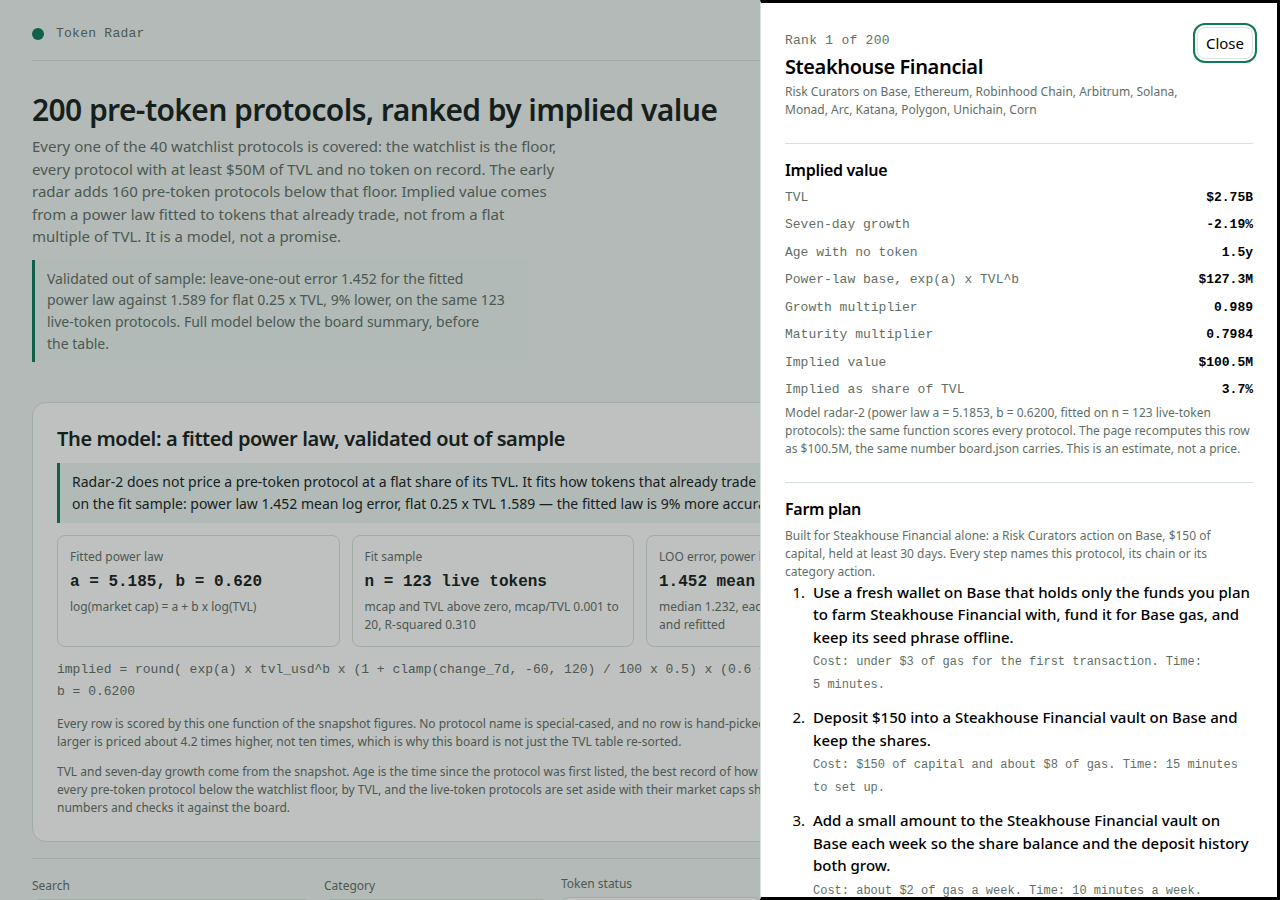
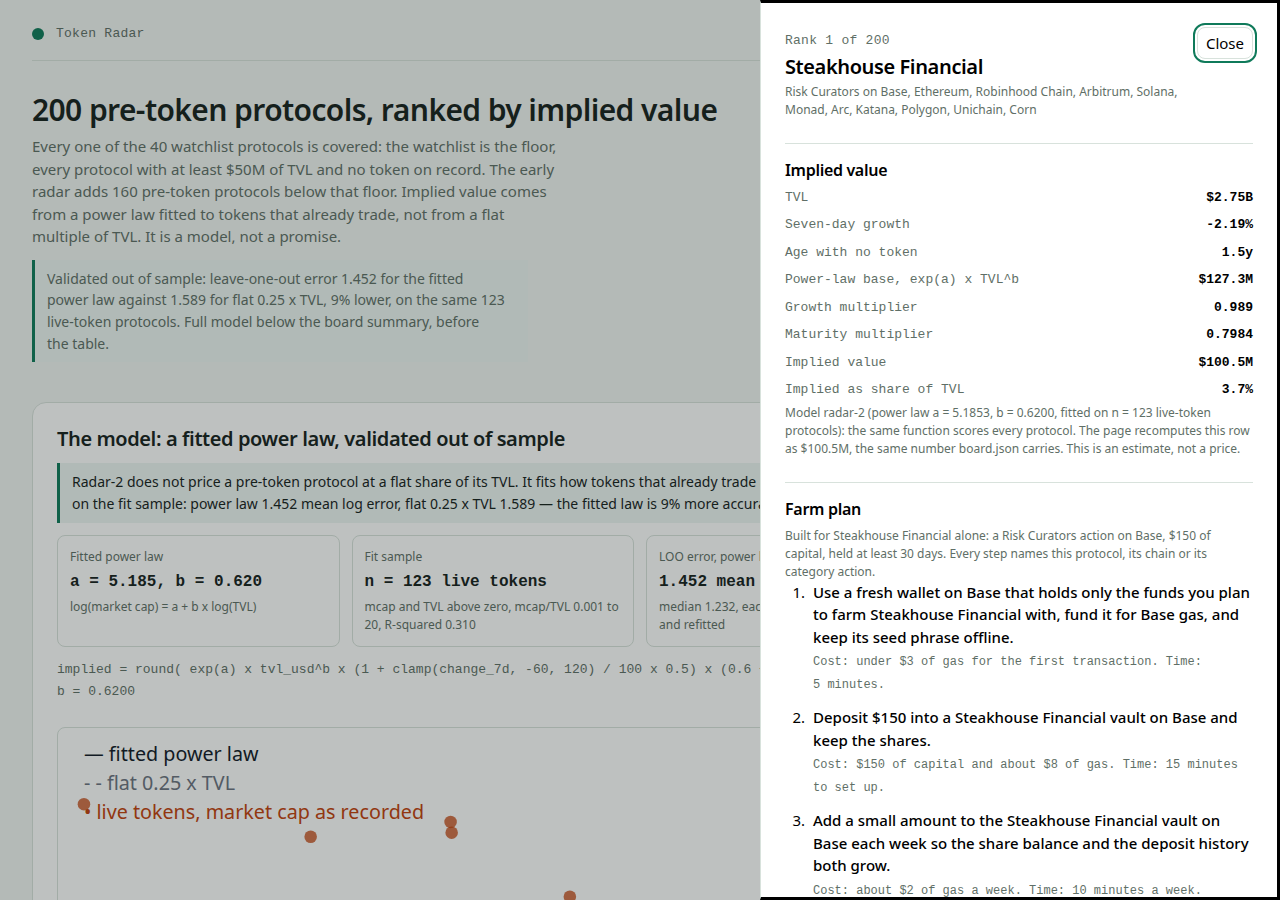
Dashboard fit chart (log-log scatter), report watchlist table; retake screenshots

Changed region(s): [[0.0312, 0.7778, 0.5938, 0.9333], [0.0312, 0.9644, 0.5938, 1.0]]

diff --git a/dashboard/app.js b/dashboard/app.js
@@ -355,6 +355,49 @@
     );
   }
 
+  // The fit as a picture, built as one SVG string (the page's element helper makes HTML
+  // elements, and SVG needs its own namespace, so the chart is composed as markup and set
+  // as inner HTML). Axes are log-log: each live-token protocol is a point at its real TVL
+  // and market cap, the solid line is the fitted law exp(a) x TVL^b, and the dashed line is
+  // the flat 0.25 x TVL baseline. The vertical gap between the two lines at a protocol's
+  // size is exactly the disagreement the validation numbers summarise.
+  function fitChart() {
+    var f = DATA.fit;
+    var pts = DATA.live.filter(function (r) { return r.mcap_usd !== null && r.mcap_usd > 0 && r.tvl_usd > 0; });
+    if (pts.length < 3) return '';
+    var W = 640, H = 250, L = 10, R = 10, T = 10, B = 26;
+    var xs = pts.map(function (r) { return Math.log10(r.tvl_usd); });
+    var ys = pts.map(function (r) { return Math.log10(r.mcap_usd); });
+    var x0 = Math.min.apply(null, xs), x1 = Math.max.apply(null, xs);
+    var y0 = Math.min.apply(null, ys.concat([Math.log10(Math.exp(f.a) * Math.pow(Math.pow(10, x0), f.b)), Math.log10(0.25 * Math.pow(10, x0))]));
+    var y1 = Math.max.apply(null, ys.concat([Math.log10(Math.exp(f.a) * Math.pow(Math.pow(10, x1), f.b)), Math.log10(0.25 * Math.pow(10, x1))]));
+    var pad = (y1 - y0) * 0.08; y0 -= pad; y1 += pad;
+    function px(x) { return (L + (x - x0) / (x1 - x0) * (W - L - R)).toFixed(1); }
+    function py(y) { return (T + (y1 - y) / (y1 - y0) * (H - T - B)).toFixed(1); }
+    function lawPath(mult) {
+      var d = '';
+      for (var i = 0; i <= 24; i++) {
+        var lx = x0 + (x1 - x0) * i / 24;
+        var tvl = Math.pow(10, lx);
+        var ly = Math.log10(mult === null ? Math.exp(f.a) * Math.pow(tvl, f.b) : mult * tvl);
+        d += (i === 0 ? 'M' : 'L') + px(lx) + ' ' + py(ly) + ' ';
+      }
+      return d.trim();
+    }
+    var circles = pts.map(function (r) {
+      return '<circle cx="' + px(Math.log10(r.tvl_usd)) + '" cy="' + py(Math.log10(r.mcap_usd)) + '" r="3.5" fill="#c2410c" fill-opacity="0.75"><title>' + r.name + ': TVL ' + fmtUsd(r.tvl_usd) + ', market cap ' + fmtUsd(r.mcap_usd) + '</title></circle>';
+    }).join('');
+    return '<svg viewBox="0 0 ' + W + ' ' + H + '" role="img" aria-label="Log-log scatter of live-token market cap against TVL, with the fitted power law and the flat baseline">' +
+      '<path d="' + lawPath(0.25) + '" fill="none" stroke="#9ca3af" stroke-width="1.5" stroke-dasharray="5 4"/>' +
+      '<path d="' + lawPath(null) + '" fill="none" stroke="#111827" stroke-width="2"/>' +
+      circles +
+      '<text x="' + (W - R) + '" y="' + (H - 8) + '" text-anchor="end" font-size="11" fill="#6b7280">log TVL, smallest to largest live protocol</text>' +
+      '<text x="' + L + '" y="' + (T + 4) + '" font-size="11" fill="#111827">— fitted power law</text>' +
+      '<text x="' + L + '" y="' + (T + 20) + '" font-size="11" fill="#6b7280">- - flat 0.25 x TVL</text>' +
+      '<text x="' + L + '" y="' + (T + 36) + '" font-size="11" fill="#c2410c">• live tokens, market cap as recorded</text>' +
+      '</svg>';
+  }
+
   function modelPanel() {
     var m = DATA.model;
     var f = DATA.fit;
@@ -371,6 +414,8 @@
       el('div', { class: 'formula' },
         'implied = round( exp(a) x tvl_usd^b x (1 + clamp(change_7d, ' + m.growth_floor + ', ' + m.growth_cap + ') / 100 x ' + m.growth_weight + ') x (' + m.maturity_floor + ' + min(age_days, ' + m.maturity_days + ') / ' + m.maturity_days + ' x ' + m.maturity_range + ') ), with a = ' + f.a.toFixed(4) + ' and b = ' + f.b.toFixed(4)
       ),
+      el('div', { class: 'fitchart', html: fitChart() }),
+      el('p', { class: 'sub', text: 'The fit, drawn: every live-token protocol in the snapshot as a point (log TVL against log market cap), the fitted law through them, and the flat baseline it beat. The law bends below the baseline at large TVL — that bend is the whole model.' }),
       el('p', { class: 'sub', text: 'Every row is scored by this one function of the snapshot figures. No protocol name is special-cased, and no row is hand-picked. Because b is below 1, implied value grows slower than TVL: a protocol ten times larger is priced about ' + Math.pow(10, f.b).toFixed(1) + ' times higher, not ten times, which is why this board is not just the TVL table re-sorted.' }),
       el('p', { class: 'sub', text: 'TVL and seven-day growth come from the snapshot. Age is the time since the protocol was first listed, the best record of how long it has run with no token; an unlisted age uses ' + m.unknown_age_days + ' days. The early radar is every pre-token protocol below the watchlist floor, by TVL, and the live-token protocols are set aside with their market caps shown. Open any row: the page recomputes its implied value from these same numbers and checks it against the board.' })
     );

diff --git a/lib/report.ts b/lib/report.ts
@@ -115,6 +115,17 @@ export function buildReport(snapshot: Snapshot, radar: RadarData, board: BoardRo
     lines.push(`| ${r.rank} | ${r.name} | ${r.category ?? '—'} | ${usd(r.tvl_usd)} | ${pct(r.change_7d)} | ${usd(r.implied_value_usd)} | ${fixed((r.implied_value_usd / r.tvl_usd) * 100, 1)}% |`);
   }
   lines.push('');
+  lines.push('## The watchlist, in full');
+  lines.push('');
+  lines.push('The forty protocols the brief guarantees a place to — TVL at or above the floor and no token on record — with the rank the model gives each. A watchlist protocol the model prices low is still here: coverage is the floor, the ranking is the model\'s opinion, and the two are never traded against each other.');
+  lines.push('');
+  lines.push('| Rank | Protocol | Category | TVL | Implied value | % of TVL |');
+  lines.push('|---|---|---|---|---|---|');
+  const watchlistRows = board.filter((r) => snapshot.watchlist.includes(r.slug));
+  for (const r of watchlistRows) {
+    lines.push(`| ${r.rank} | ${r.name} | ${r.category ?? '—'} | ${usd(r.tvl_usd)} | ${usd(r.implied_value_usd)} | ${fixed((r.implied_value_usd / r.tvl_usd) * 100, 1)}% |`);
+  }
+  lines.push('');
   lines.push('Every row of board.json carries the same breakdown the dashboard recomputes in the page — the fitted a and b, the growth and maturity multipliers — plus a farm plan derived from that protocol\'s own category, first chain, TVL and age. Implied value is a model, not a promise: it prices what a launch would be worth if this protocol\'s token were valued the way the snapshot\'s live tokens are valued at its size.');
   lines.push('');
   return lines.join('\n');

diff --git a/dashboard/app.css b/dashboard/app.css
@@ -99,6 +99,8 @@ tbody tr[data-selected="true"] { background: color-mix(in srgb, var(--accent) 8%
 
 .model { margin-top: var(--step-4); margin-bottom: var(--step-4); padding: var(--step-5); display: grid; gap: var(--step-3); }
 .formula { font-family: var(--font-num); font-size: 13px; line-height: 1.7; color: var(--muted); overflow-wrap: anywhere; }
+.fitchart { margin-top: var(--step-3); border: 1px solid var(--border); border-radius: var(--radius-control); background: var(--surface); padding: var(--step-2); }
+.fitchart svg { display: block; width: 100%; height: auto; }
 .verdict {
   border-left: 3px solid var(--accent); padding: var(--step-2) var(--step-3);
   background: color-mix(in srgb, var(--accent) 7%, var(--surface));
